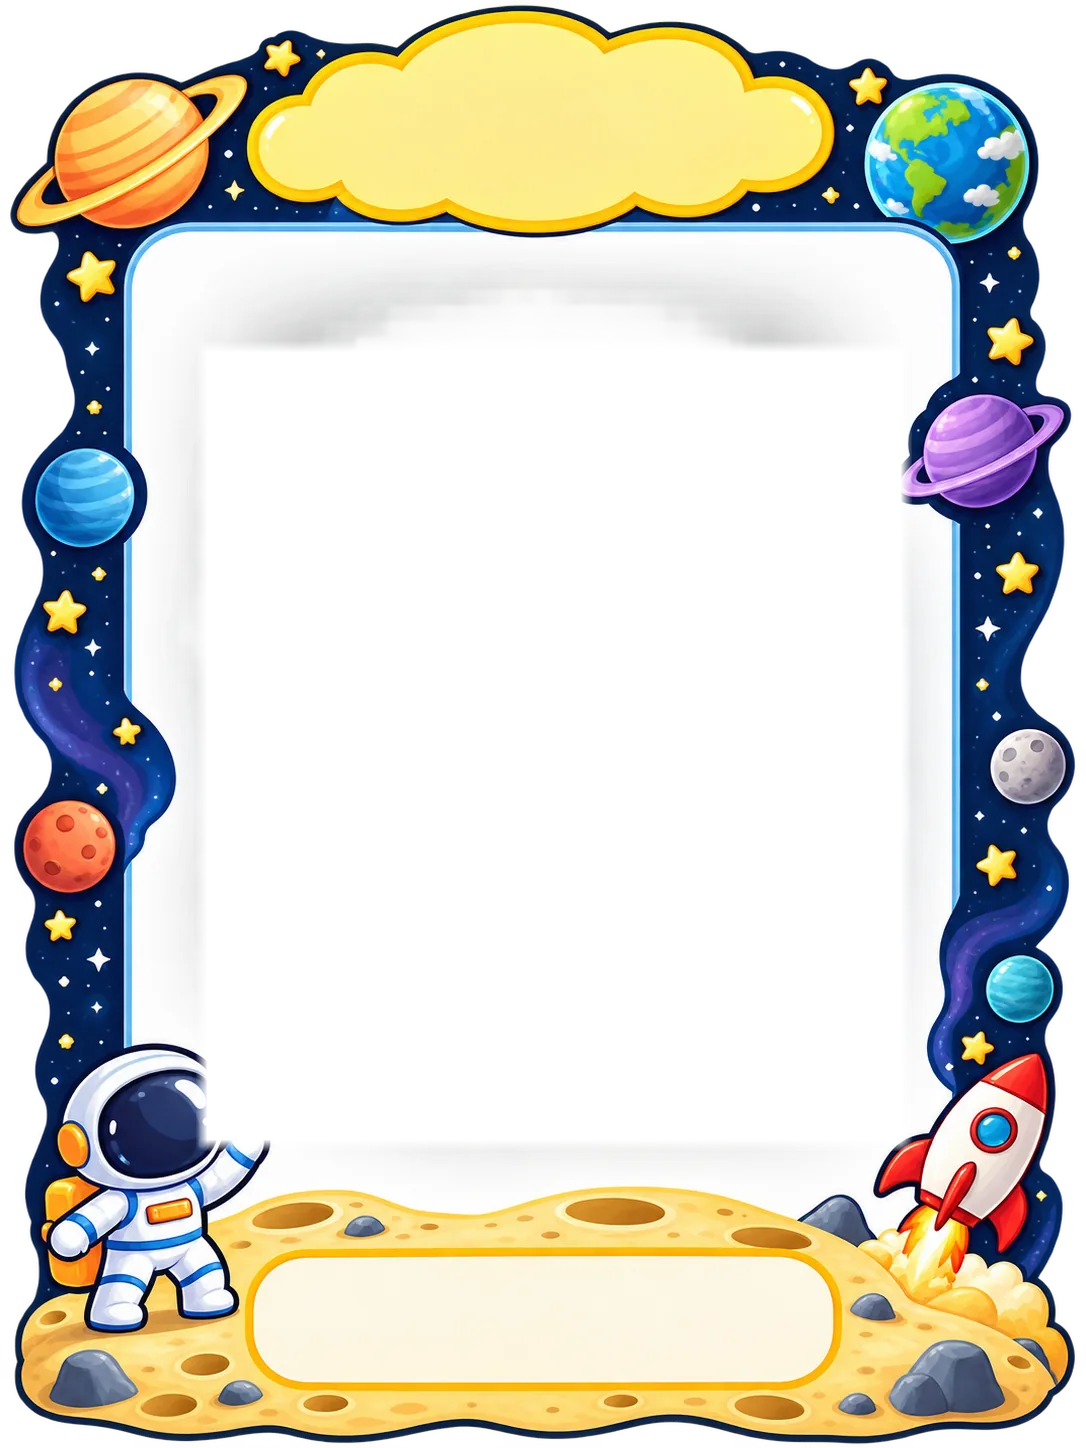
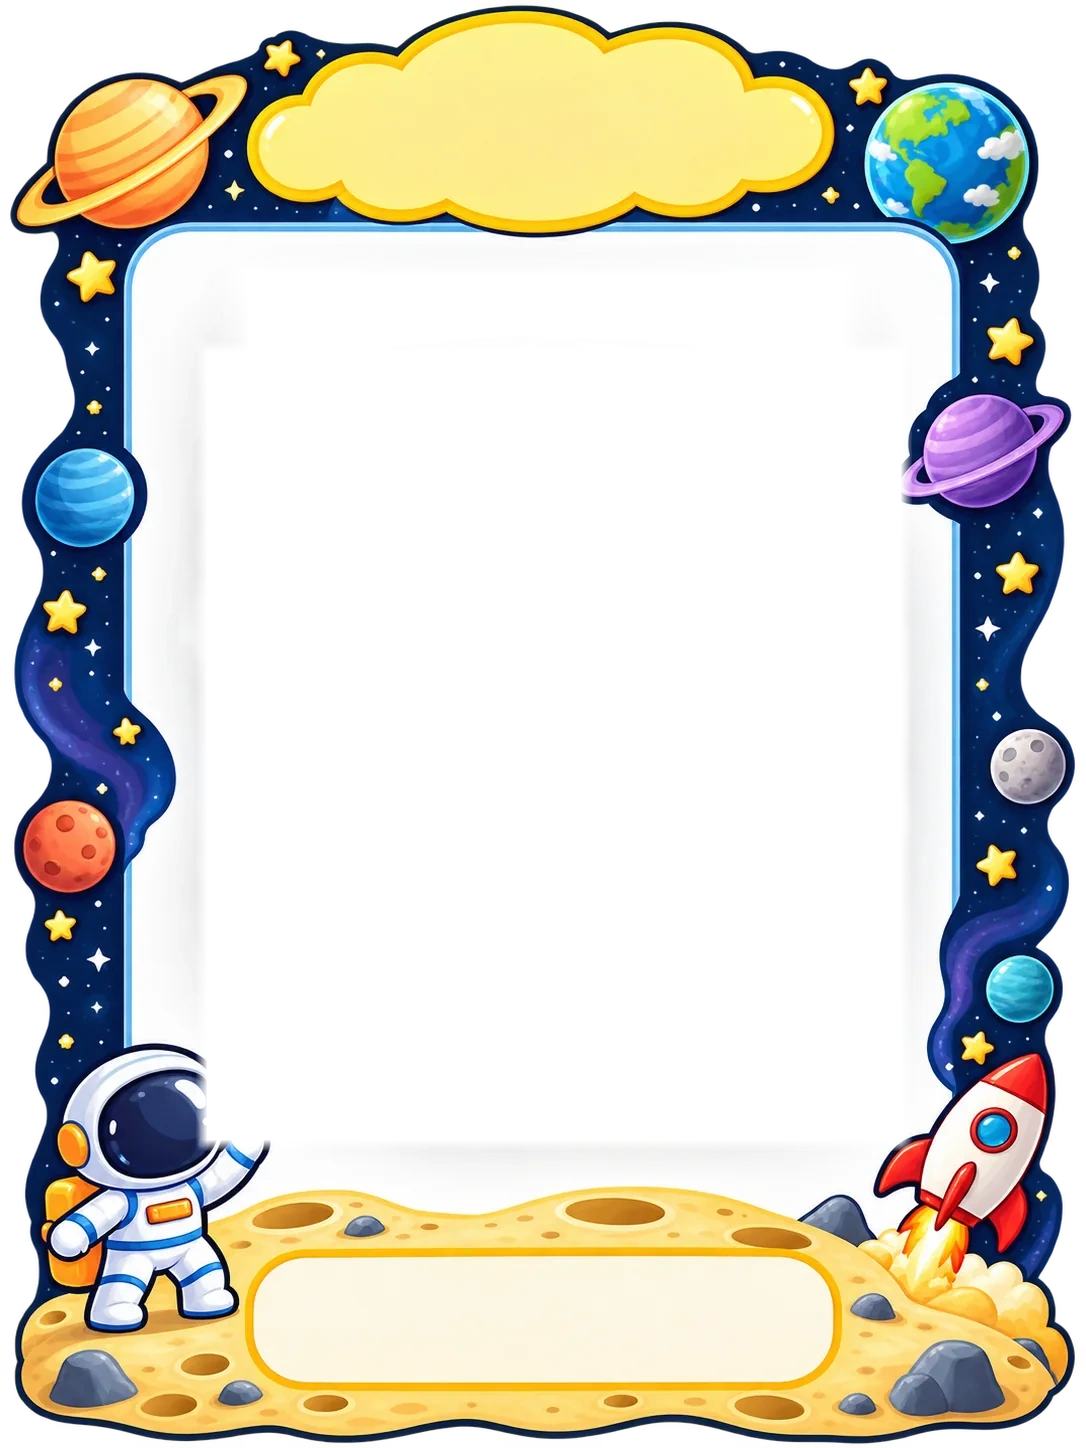
release: publish verified A4 worksheet

Changed region(s): [[0.2127, 0.1865, 0.4558, 0.2486], [0.6077, 0.1865, 0.7597, 0.2486]]

diff --git a/css/themes.css b/css/themes.css
@@ -317,3 +317,198 @@
  .sheet.smart-page.theme-classic .p-header {padding-top:13mm}
  .sheet.smart-page.theme-garden .memory-tip {flex-basis:33mm;height:33mm;max-height:33mm}
 }
+
+/* 2026-10-25: Safe content geometry for the transparent frame artwork.
+   Frame masks are not blank white margins: their nontransparent border/planets
+   start at about 19% of A4 width and the lower illustration starts at ~80%.
+   Do not lay out text using the outer 210mm canvas as if it were all writable. */
+.sheet.smart-page.theme-classic,
+.sheet.smart-page.theme-cute,
+.sheet.smart-page.theme-space,
+.sheet.smart-page.theme-garden {
+  --qv-safe-inline:22%;
+  --qv-exercise-start:27%;
+  --qv-exercise-end:78%;
+  --qv-memo-bottom:5.5%;
+  --qv-memo-height:8.6%;
+  padding:0!important;
+}
+.sheet.smart-page.theme-garden {
+  --qv-safe-inline:25%;
+  --qv-exercise-start:27%;
+  --qv-exercise-end:75.5%;
+  --qv-memo-bottom:9%;
+  --qv-memo-height:9%;
+}
+.sheet.smart-page.theme-classic {
+  --qv-safe-inline:22%;
+  --qv-exercise-start:27%;
+  --qv-exercise-end:78.5%;
+}
+.sheet.smart-page[class*='theme-'] > .p-header,
+.sheet.smart-page[class*='theme-'] > .p-meta,
+.sheet.smart-page[class*='theme-'] > .sheet-content,
+.sheet.smart-page[class*='theme-'] > .memory-tip {
+  position:absolute!important;
+  box-sizing:border-box;
+  z-index:1;
+  margin:0!important;
+  min-height:0!important;
+  max-height:none;
+  flex:none!important;
+}
+.sheet.smart-page[class*='theme-'] > .p-header {
+  top:5.5%;
+  left:17%;
+  right:17%;
+  width:auto;
+  height:10.5%;
+  padding:1% 0 0!important;
+  align-items:flex-start;
+  justify-content:center;
+}
+.sheet.smart-page.theme-garden > .p-header {top:6%;height:10%;padding-top:0!important}
+.sheet.smart-page.theme-classic > .p-header {top:4.2%;height:9.8%;padding-top:0!important}
+.sheet.smart-page[class*='theme-'] > .p-header .heading-title {
+  font-size:clamp(18px,2.2vw,27px);
+  line-height:1.22;
+  max-width:100%;
+  width:100%;
+  padding:0!important;
+  margin:0!important;
+  overflow-wrap:normal;
+}
+.sheet.smart-page[class*='theme-'] > .p-meta {
+  top:19.5%;
+  left:var(--qv-safe-inline);
+  right:var(--qv-safe-inline);
+  width:auto!important;
+  height:6%;
+  padding:0!important;
+  background:transparent!important;
+  border-radius:0!important;
+  justify-content:space-between;
+  gap:7px;
+  align-items:flex-start;
+  font-size:11px;
+  line-height:1.4;
+  white-space:normal;
+}
+.sheet.smart-page[class*='theme-'] > .p-meta .meta-left {gap:2px}
+.sheet.smart-page[class*='theme-'] > .p-meta >span {white-space:nowrap}
+.sheet.smart-page[class*='theme-'] > .sheet-content {
+  top:var(--qv-exercise-start);
+  bottom:calc(100% - var(--qv-exercise-end));
+  left:var(--qv-safe-inline);
+  right:var(--qv-safe-inline);
+  width:auto!important;
+  height:auto!important;
+  padding:0!important;
+  display:flex;
+  min-height:0!important;
+  flex-direction:column;
+  gap:2px;
+}
+.sheet.smart-page[class*='theme-'] .sheet-content .sheet-section,
+.sheet.smart-page[class*='theme-'] .sheet-content .sheet-section:first-of-type,
+.sheet.smart-page[class*='theme-'] .sheet-content .sheet-section[data-rows='1'],
+.sheet.smart-page[class*='theme-'] .sheet-content .sheet-section[data-rows='2'] {
+  margin:0!important;
+  padding:36px 0 4px!important;
+  flex:var(--section-weight,1) 1 0!important;
+  overflow:visible;
+}
+.sheet.smart-page[class*='theme-'] .sheet-content .sheet-section .section-pill {
+  left:0; right:0; top:0;
+  width:100%;
+  max-width:100%;
+  height:33px;
+  font-size:clamp(10px,1.25vw,15px);
+  letter-spacing:-.3px;
+  white-space:normal;
+  font-weight:800;
+  line-height:1.22;
+  background:transparent;
+  gap:7px;
+}
+.sheet.smart-page[class*='theme-'] .sheet-section .section-pill::before {
+  width:30px; height:30px; flex-basis:30px;
+  font-size:17px;
+}
+.sheet.smart-page[class*='theme-'] .problem-grid {
+  grid-template-columns:repeat(var(--columns,4),minmax(0,1fr));
+  padding:0!important;
+  column-gap:4px;
+  row-gap:5px;
+}
+.sheet.smart-page[class*='theme-'] .problem {
+  justify-content:center;
+  min-width:0;
+  overflow:visible;
+}
+.sheet.smart-page[class*='theme-'] .arithmetic {
+  font-size:calc(19px * var(--smart-font-scale,1));
+  max-width:100%;
+}
+.sheet.smart-page[class*='theme-'].cols-4 .arithmetic {font-size:calc(16px * var(--smart-font-scale,1))}
+.sheet.smart-page[class*='theme-'].cols-5 .arithmetic {font-size:calc(12.7px * var(--smart-font-scale,1))}
+.sheet.smart-page[class*='theme-'] > .memory-tip {
+  left:26%;
+  right:26%;
+  bottom:var(--qv-memo-bottom);
+  width:auto!important;
+  height:var(--qv-memo-height)!important;
+  max-height:none!important;
+  padding:0!important;
+  display:flex;
+  align-items:center;
+  justify-content:center;
+  background:transparent;
+  color:#142441;
+}
+.sheet.smart-page.theme-garden > .memory-tip {left:23%;right:23%}
+.sheet.smart-page.theme-classic > .memory-tip {left:18%;right:18%}
+.sheet.smart-page[class*='theme-'] .memory-tip .tip-content {
+  min-width:0;
+  width:100%;
+  padding:0!important;
+  margin:0!important;
+}
+.sheet.smart-page[class*='theme-'] .memory-tip h3 {
+  margin:0 0 2px!important;
+  font-size:clamp(13px,1.35vw,16px);
+  line-height:1.22;
+}
+.sheet.smart-page[class*='theme-'] .memory-tip .theme-tip-text {
+  margin:0;
+  font-size:clamp(11px,1.1vw,13px);
+  line-height:1.3;
+}
+.sheet.smart-page[class*='theme-'] > .sheet-footer {bottom:2.3%;z-index:2}
+.sheet.smart-page.theme-garden > .sheet-footer {bottom:1.2%}
+@media print {
+  .sheet.smart-page[class*='theme-'] {
+    padding:0!important;
+    width:194mm!important;
+    height:281mm!important;
+    min-height:281mm!important;
+    max-height:281mm!important;
+  }
+  .sheet.smart-page[class*='theme-'] > .p-header {top:5.5%;height:10%;padding-top:1%!important}
+  .sheet.smart-page.theme-classic > .p-header {top:4.2%;padding-top:0!important}
+  .sheet.smart-page[class*='theme-'] > .p-header .heading-title {font-size:21px!important}
+  .sheet.smart-page[class*='theme-'] > .p-meta {font-size:10px!important}
+  .sheet.smart-page[class*='theme-'] .sheet-content .sheet-section,
+  .sheet.smart-page[class*='theme-'] .sheet-content .sheet-section:first-of-type,
+  .sheet.smart-page[class*='theme-'] .sheet-content .sheet-section[data-rows='1'],
+  .sheet.smart-page[class*='theme-'] .sheet-content .sheet-section[data-rows='2'] {
+    padding:32px 0 3px!important;
+  }
+  .sheet.smart-page[class*='theme-'] .sheet-section .section-pill {font-size:12px}
+  .sheet.smart-page[class*='theme-'] .sheet-section .section-pill::before {width:27px;height:27px;flex-basis:27px;font-size:16px}
+  .sheet.smart-page[class*='theme-'] .arithmetic {font-size:calc(16.5px * var(--smart-font-scale,1))}
+  .sheet.smart-page[class*='theme-'].cols-4 .arithmetic {font-size:calc(14.5px * var(--smart-font-scale,1))}
+  .sheet.smart-page[class*='theme-'].cols-5 .arithmetic {font-size:calc(11px * var(--smart-font-scale,1))}
+  .sheet.smart-page[class*='theme-'] .memory-tip h3 {font-size:14px}
+  .sheet.smart-page[class*='theme-'] .memory-tip .theme-tip-text {font-size:11px}
+}
